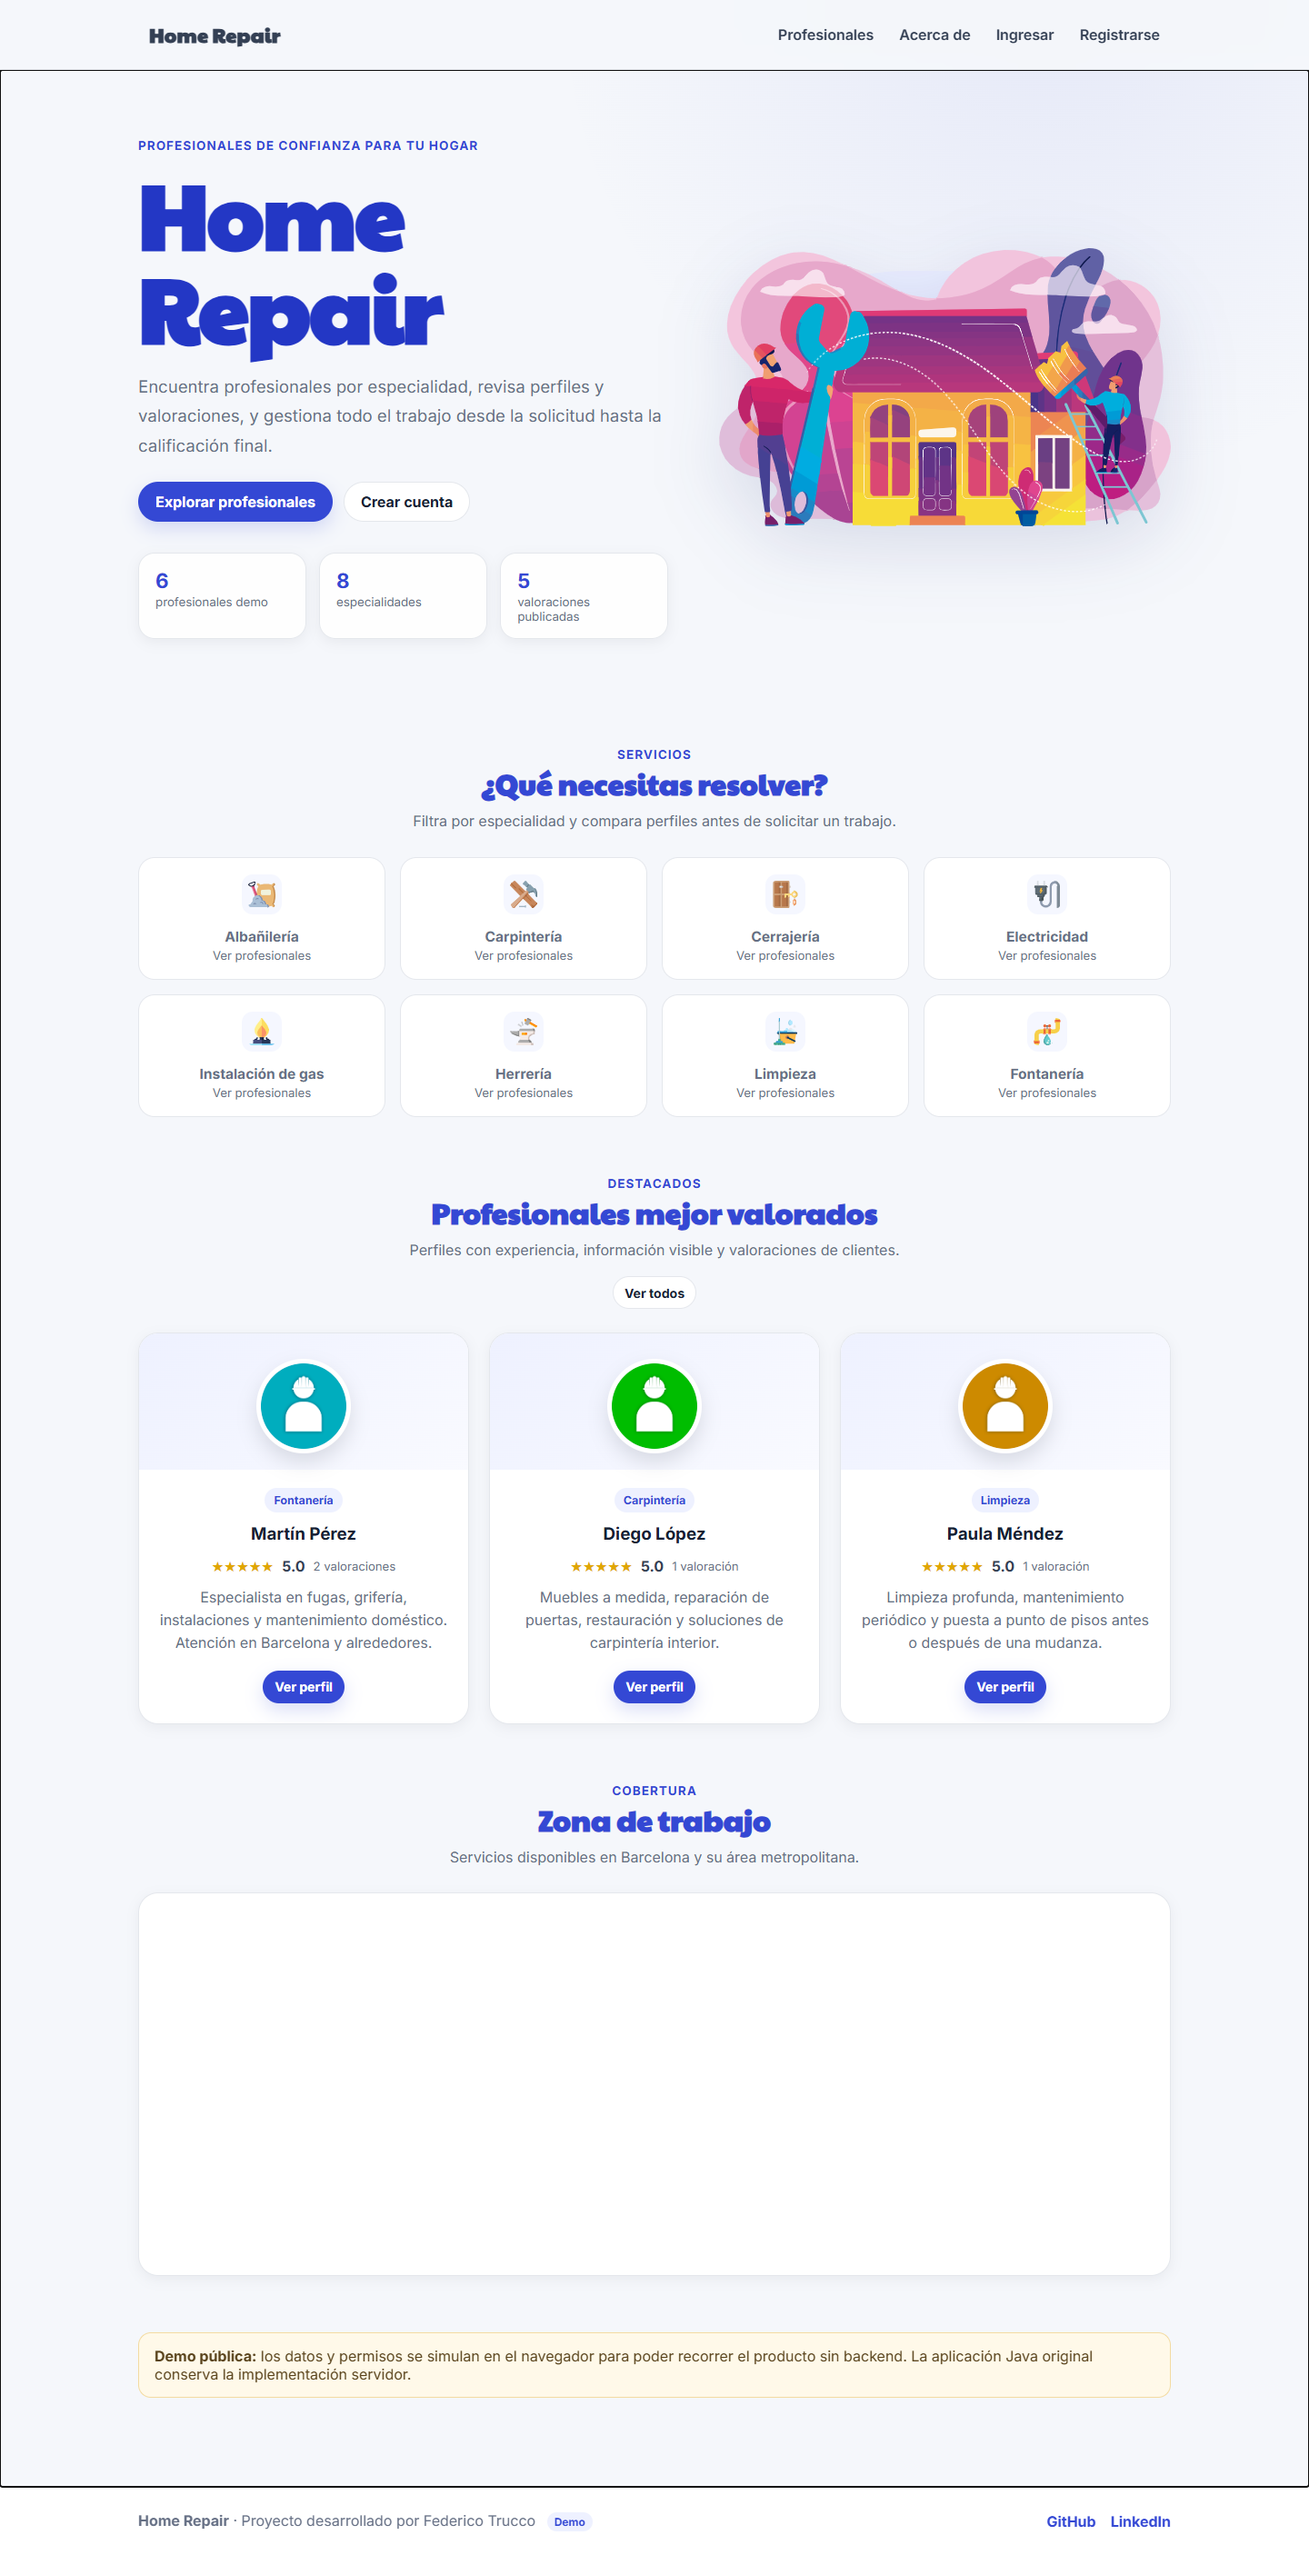
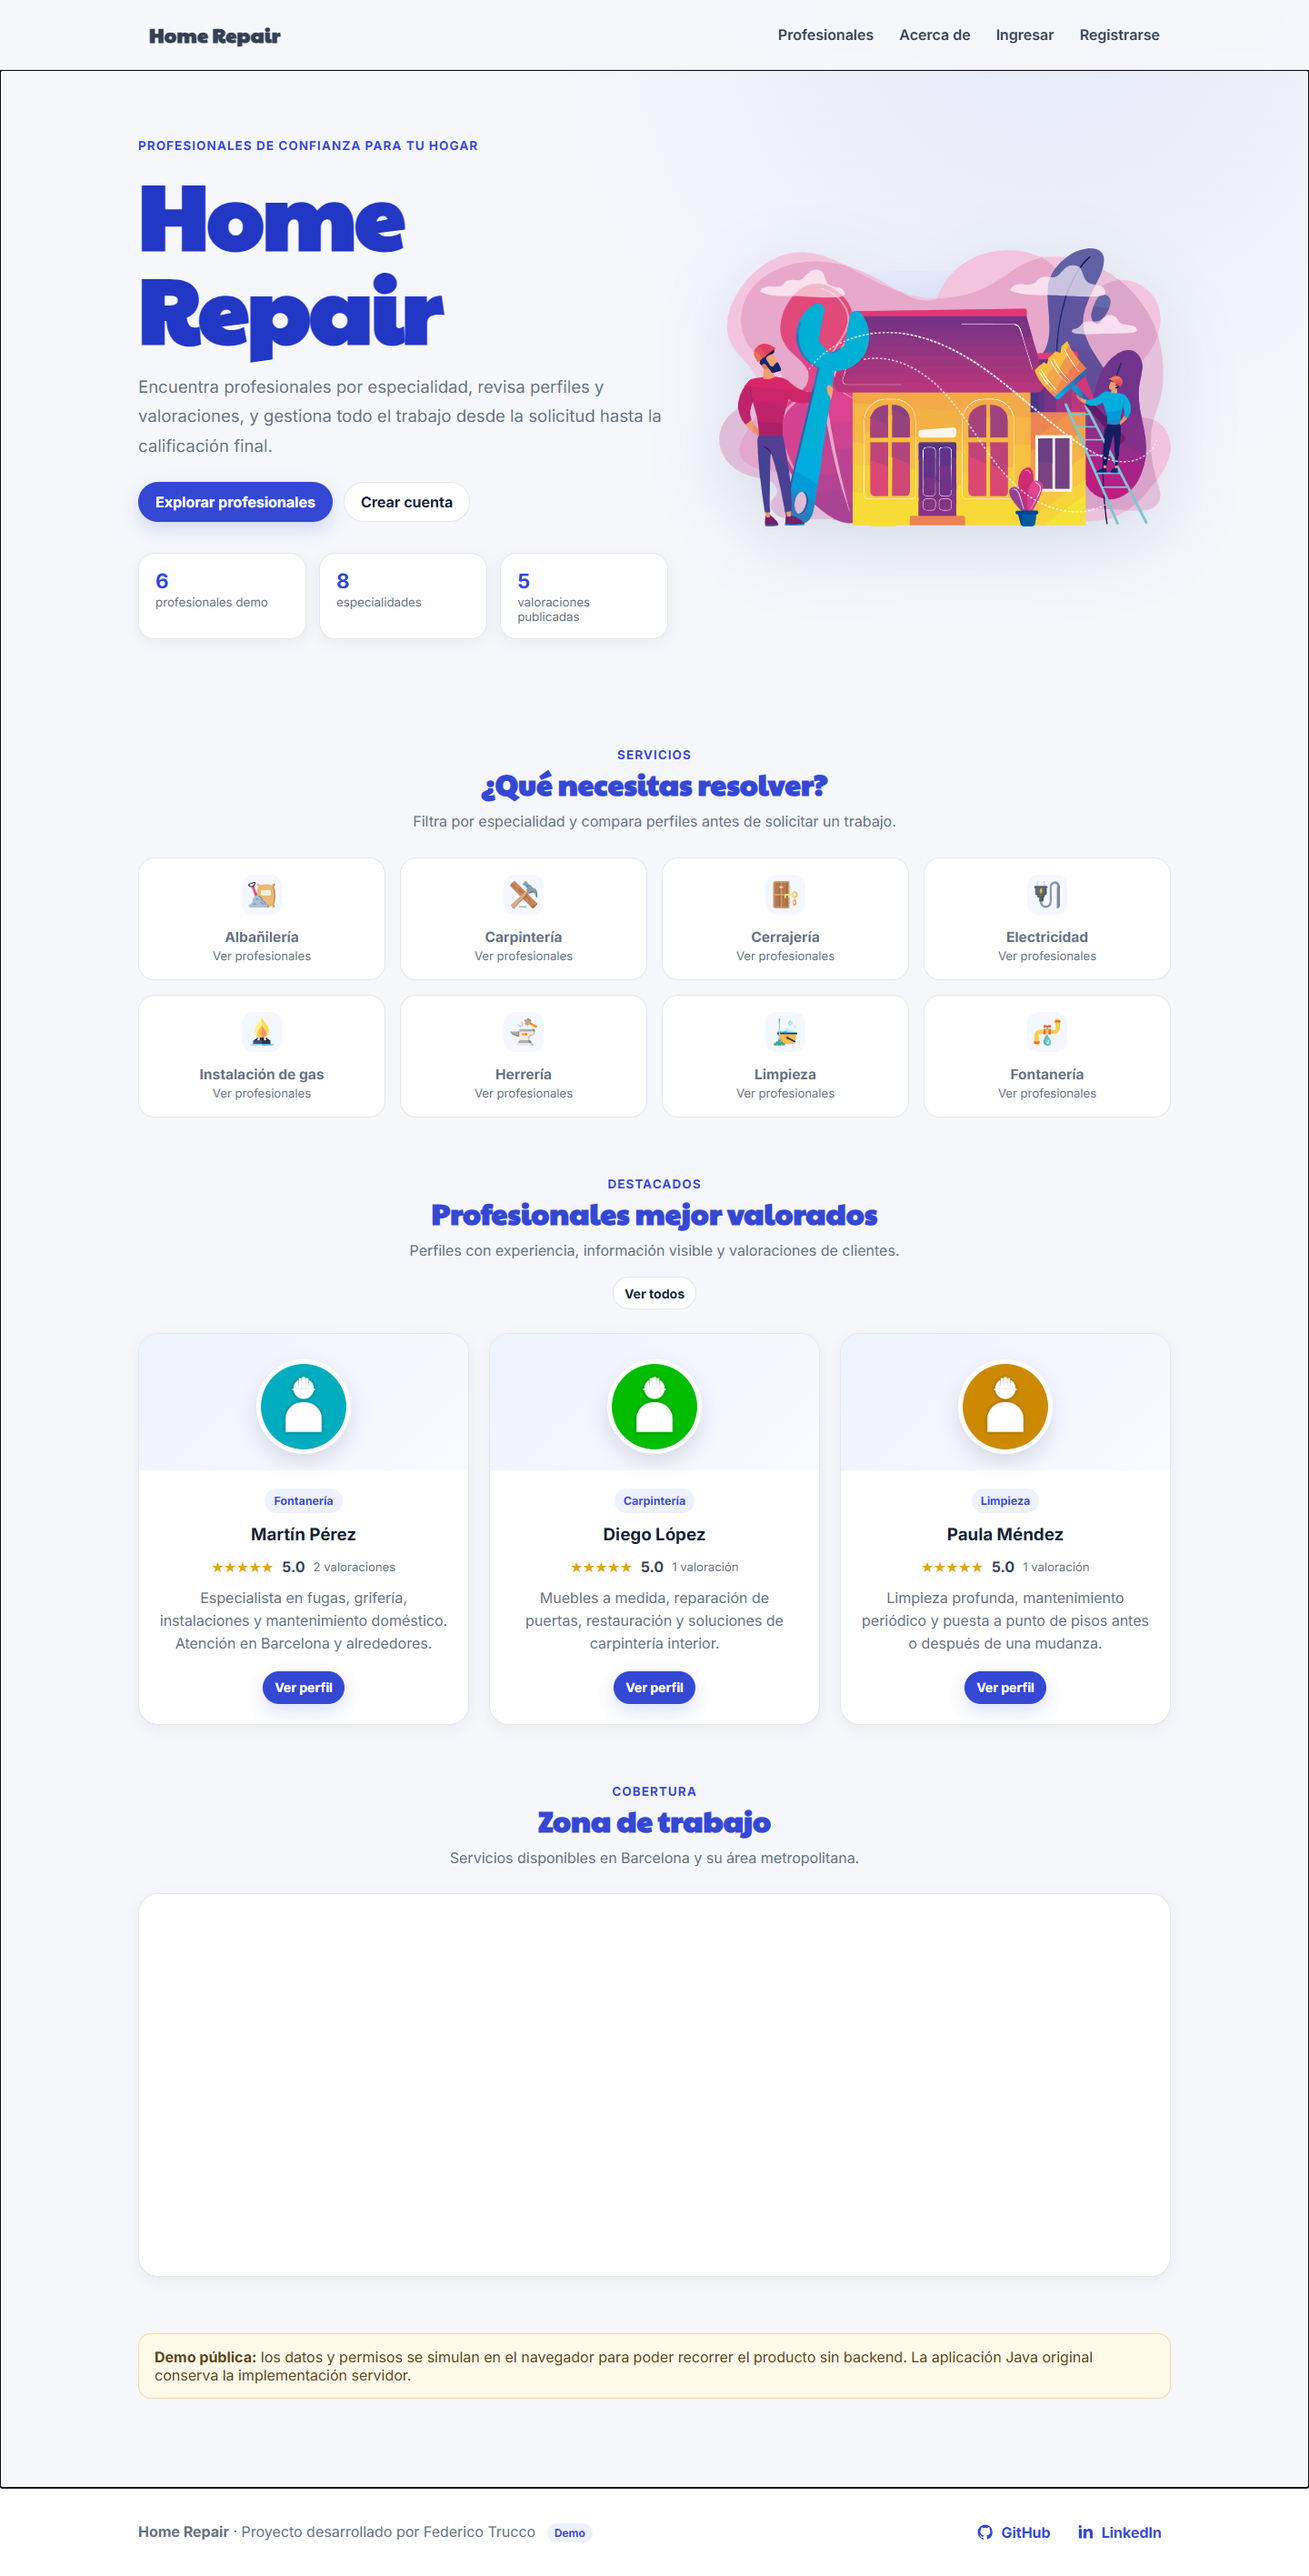
Improve accessible login and footer, refresh README screenshots
Use accessible placeholders in the demo login, add icon-plus-text social links with keyboard focus states, and refresh README screenshots to the current UI.

diff --git a/src/main/resources/templates/th_templates/footer.html b/src/main/resources/templates/th_templates/footer.html
@@ -1,21 +1,27 @@
 <footer th:fragment="footer" class="footer py-4 mt-5 border-top">
-  <div class="container d-flex flex-column flex-md-row align-items-center justify-content-between gap-3">
-    <p class="mb-0 text-muted">
-      Home Repair · Proyecto desarrollado por Federico Trucco
+  <div class="footer-inner container">
+    <p class="footer-copy">
+      <strong>Home Repair</strong> · Proyecto desarrollado por Federico Trucco
     </p>
-    <div class="d-flex gap-3">
-      <a href="https://github.com/truquinio"
+    <nav class="footer-links" aria-label="Enlaces del proyecto">
+      <a class="footer-social-link"
+         href="https://github.com/truquinio/home-repair"
          target="_blank"
-         rel="noopener noreferrer"
-         class="text-decoration-none">
-        GitHub
+         rel="noopener noreferrer">
+        <svg class="footer-social-icon" viewBox="0 0 24 24" aria-hidden="true" focusable="false">
+          <path fill="currentColor" d="M12 .7a11.3 11.3 0 0 0-3.6 22c.6.1.8-.3.8-.6v-2.2c-3.3.7-4-1.4-4-1.4-.5-1.4-1.3-1.8-1.3-1.8-1.1-.7.1-.7.1-.7 1.2.1 1.8 1.2 1.8 1.2 1.1 1.8 2.8 1.3 3.5 1 .1-.8.4-1.3.8-1.6-2.6-.3-5.4-1.3-5.4-5.8 0-1.3.5-2.3 1.2-3.1-.1-.3-.5-1.5.1-3.1 0 0 1-.3 3.2 1.2a11 11 0 0 1 5.8 0C16.8 4 17.8 4.3 17.8 4.3c.6 1.6.2 2.8.1 3.1.8.8 1.2 1.8 1.2 3.1 0 4.5-2.8 5.5-5.4 5.8.4.4.8 1.1.8 2.2v3.3c0 .3.2.7.8.6A11.3 11.3 0 0 0 12 .7Z"/>
+        </svg>
+        <span>GitHub</span>
       </a>
-      <a href="https://www.linkedin.com/in/federico-trucco/"
+      <a class="footer-social-link"
+         href="https://www.linkedin.com/in/federico-trucco/"
          target="_blank"
-         rel="noopener noreferrer"
-         class="text-decoration-none">
-        LinkedIn
+         rel="noopener noreferrer">
+        <svg class="footer-social-icon" viewBox="0 0 24 24" aria-hidden="true" focusable="false">
+          <path fill="currentColor" d="M5.3 3.5A2.3 2.3 0 1 1 .7 3.5a2.3 2.3 0 0 1 4.6 0ZM1.1 7h4.3v13.8H1.1V7Zm6.8 0H12v1.9h.1c.6-1.1 2-2.3 4.1-2.3 4.4 0 5.2 2.9 5.2 6.7v7.5h-4.3v-6.7c0-1.6 0-3.7-2.3-3.7s-2.6 1.8-2.6 3.6v6.8H7.9V7Z"/>
+        </svg>
+        <span>LinkedIn</span>
       </a>
-    </div>
+    </nav>
   </div>
 </footer>

diff --git a/demo/styles.css b/demo/styles.css
@@ -32,6 +32,7 @@ a{color:inherit}
 button,input,select,textarea{font:inherit}
 button{cursor:pointer}
 img{max-width:100%;display:block}
+.sr-only{position:absolute!important;width:1px!important;height:1px!important;padding:0!important;margin:-1px!important;overflow:hidden!important;clip:rect(0,0,0,0)!important;white-space:nowrap!important;border:0!important}
 .skip-link{position:absolute;left:-9999px;top:8px;background:#111827;color:#fff;padding:8px 12px;border-radius:8px;z-index:100}
 .skip-link:focus{left:8px}
 .nav{
@@ -214,9 +215,21 @@ th{color:#475467;background:#f8f9fc;font-size:.78rem;text-transform:uppercase;le
 .site-footer{padding:0;border-top:1px solid rgba(0,0,0,.07);color:var(--muted);background:#fff}
 .footer-inner{max-width:var(--max);margin:auto;padding:26px 22px;display:flex;align-items:center;justify-content:space-between;gap:20px}
 .footer-inner p{margin:0}
-.footer-links{display:flex;gap:16px;flex-wrap:wrap}
-.footer-links a{color:var(--primary);font-weight:700;text-decoration:none}
-.footer-links a:hover{text-decoration:underline}
+.footer-links{display:flex;gap:10px;flex-wrap:wrap}
+.social-link{
+  display:inline-flex;
+  align-items:center;
+  gap:8px;
+  min-height:44px;
+  padding:8px 10px;
+  border-radius:10px;
+  color:var(--primary);
+  font-weight:700;
+  text-decoration:none;
+}
+.social-link:hover{background:#eef1ff}
+.social-link:focus-visible{outline:3px solid rgba(52,72,212,.25);outline-offset:2px}
+.social-icon{width:18px;height:18px;flex:0 0 18px}
 .demo-badge{display:inline-flex;margin-left:8px;padding:3px 8px;border-radius:999px;background:#eef1ff;color:var(--primary);font-size:.75rem;font-weight:800}
 .toast{position:fixed;right:18px;bottom:18px;max-width:340px;background:#172033;color:white;padding:12px 16px;border-radius:12px;box-shadow:var(--shadow-md);opacity:0;transform:translateY(15px);pointer-events:none;transition:.2s;z-index:40}
 .toast.show{opacity:1;transform:none}

diff --git a/demo/index.html b/demo/index.html
@@ -18,8 +18,18 @@
     <div class="footer-inner">
       <p><strong>Home Repair</strong> · Proyecto desarrollado por Federico Trucco <span class="demo-badge">Demo</span></p>
       <nav class="footer-links" aria-label="Enlaces del proyecto">
-        <a href="https://github.com/truquinio/home-repair" target="_blank" rel="noopener noreferrer">GitHub</a>
-        <a href="https://www.linkedin.com/in/federico-trucco/" target="_blank" rel="noopener noreferrer">LinkedIn</a>
+        <a class="social-link" href="https://github.com/truquinio/home-repair" target="_blank" rel="noopener noreferrer">
+          <svg class="social-icon" viewBox="0 0 24 24" aria-hidden="true" focusable="false">
+            <path fill="currentColor" d="M12 .7a11.3 11.3 0 0 0-3.6 22c.6.1.8-.3.8-.6v-2.2c-3.3.7-4-1.4-4-1.4-.5-1.4-1.3-1.8-1.3-1.8-1.1-.7.1-.7.1-.7 1.2.1 1.8 1.2 1.8 1.2 1.1 1.8 2.8 1.3 3.5 1 .1-.8.4-1.3.8-1.6-2.6-.3-5.4-1.3-5.4-5.8 0-1.3.5-2.3 1.2-3.1-.1-.3-.5-1.5.1-3.1 0 0 1-.3 3.2 1.2a11 11 0 0 1 5.8 0C16.8 4 17.8 4.3 17.8 4.3c.6 1.6.2 2.8.1 3.1.8.8 1.2 1.8 1.2 3.1 0 4.5-2.8 5.5-5.4 5.8.4.4.8 1.1.8 2.2v3.3c0 .3.2.7.8.6A11.3 11.3 0 0 0 12 .7Z"/>
+          </svg>
+          <span>GitHub</span>
+        </a>
+        <a class="social-link" href="https://www.linkedin.com/in/federico-trucco/" target="_blank" rel="noopener noreferrer">
+          <svg class="social-icon" viewBox="0 0 24 24" aria-hidden="true" focusable="false">
+            <path fill="currentColor" d="M5.3 3.5A2.3 2.3 0 1 1 .7 3.5a2.3 2.3 0 0 1 4.6 0ZM1.1 7h4.3v13.8H1.1V7Zm6.8 0H12v1.9h.1c.6-1.1 2-2.3 4.1-2.3 4.4 0 5.2 2.9 5.2 6.7v7.5h-4.3v-6.7c0-1.6 0-3.7-2.3-3.7s-2.6 1.8-2.6 3.6v6.8H7.9V7Z"/>
+          </svg>
+          <span>LinkedIn</span>
+        </a>
       </nav>
     </div>
   </footer>

diff --git a/src/main/resources/static/css/footer.css b/src/main/resources/static/css/footer.css
@@ -1,23 +1,61 @@
-.footer { 
+.footer {
+  margin-top: 2rem;
+  padding: 0;
+  border-top: 1px solid #e4e7ec;
+  background: #fff;
+  box-shadow: 0 -4px 14px rgba(16, 24, 40, .06);
+}
+
+.footer-inner {
   display: flex;
-  justify-content: center;
   align-items: center;
-  padding: 1rem 20rem;
-  margin-top: 1rem;
-  border-top: 1px solid #000;
-
-  background-color: #fff;
-  box-shadow: 0px -7px 12px -3px rgba(0, 0, 0, 0.262);
+  justify-content: space-between;
+  gap: 1rem 2rem;
+  padding-block: 1.25rem;
 }
 
-.imgFooter {
-  width: 45px;
-  position: relative;
-  left: 50px;
-
+.footer-copy {
+  margin: 0;
+  color: #667085;
 }
 
-.footer p {
-  margin: 0 5rem;
-  font-size: 15px;
+.footer-links {
+  display: flex;
+  flex-wrap: wrap;
+  gap: .625rem;
+}
+
+.footer-social-link {
+  display: inline-flex;
+  align-items: center;
+  gap: .5rem;
+  min-height: 44px;
+  padding: .5rem .625rem;
+  border-radius: .625rem;
+  color: #3448d4;
+  font-weight: 700;
+  text-decoration: none;
+}
+
+.footer-social-link:hover {
+  background: #eef1ff;
+  color: #2637ad;
+}
+
+.footer-social-link:focus-visible {
+  outline: 3px solid rgba(52, 72, 212, .25);
+  outline-offset: 2px;
+}
+
+.footer-social-icon {
+  width: 18px;
+  height: 18px;
+  flex: 0 0 18px;
+}
+
+@media (max-width: 768px) {
+  .footer-inner {
+    align-items: flex-start;
+    flex-direction: column;
+  }
 }

diff --git a/demo/app.js b/demo/app.js
@@ -195,8 +195,8 @@ function login(){
       <button class="demo-user" data-demo="u-admin"><img src="./img/profileImg.png" alt=""><span><strong>Administrador</strong><span>admin@homerepair.demo</span></span></button>
     </div>
     <form id="login-form">
-      <div class="field"><label for="email">Correo electrónico</label><input id="email" name="email" type="email" autocomplete="email" required></div>
-      <div class="field"><label for="password">Contraseña</label><input id="password" name="password" type="password" autocomplete="current-password" required></div>
+      <div class="field"><label class="sr-only" for="email">Correo electrónico</label><input id="email" name="email" type="email" autocomplete="email" placeholder="Correo electrónico" required></div>
+      <div class="field"><label class="sr-only" for="password">Contraseña</label><input id="password" name="password" type="password" autocomplete="current-password" placeholder="Contraseña" required></div>
       <p id="login-error" class="form-error" role="alert"></p>
       <button class="btn" type="submit">Ingresar</button>
     </form>

diff --git a/README.md b/README.md
@@ -22,6 +22,10 @@ Las siguientes capturas se generan a partir de la demo funcional actual.
 
 ![Home Repair - Inicio](docs/screenshots/home.png)
 
+### Inicio de sesión
+
+![Home Repair - Inicio de sesión](docs/screenshots/login.png)
+
 ### Profesionales
 
 ![Home Repair - Profesionales](docs/screenshots/professionals.png)
